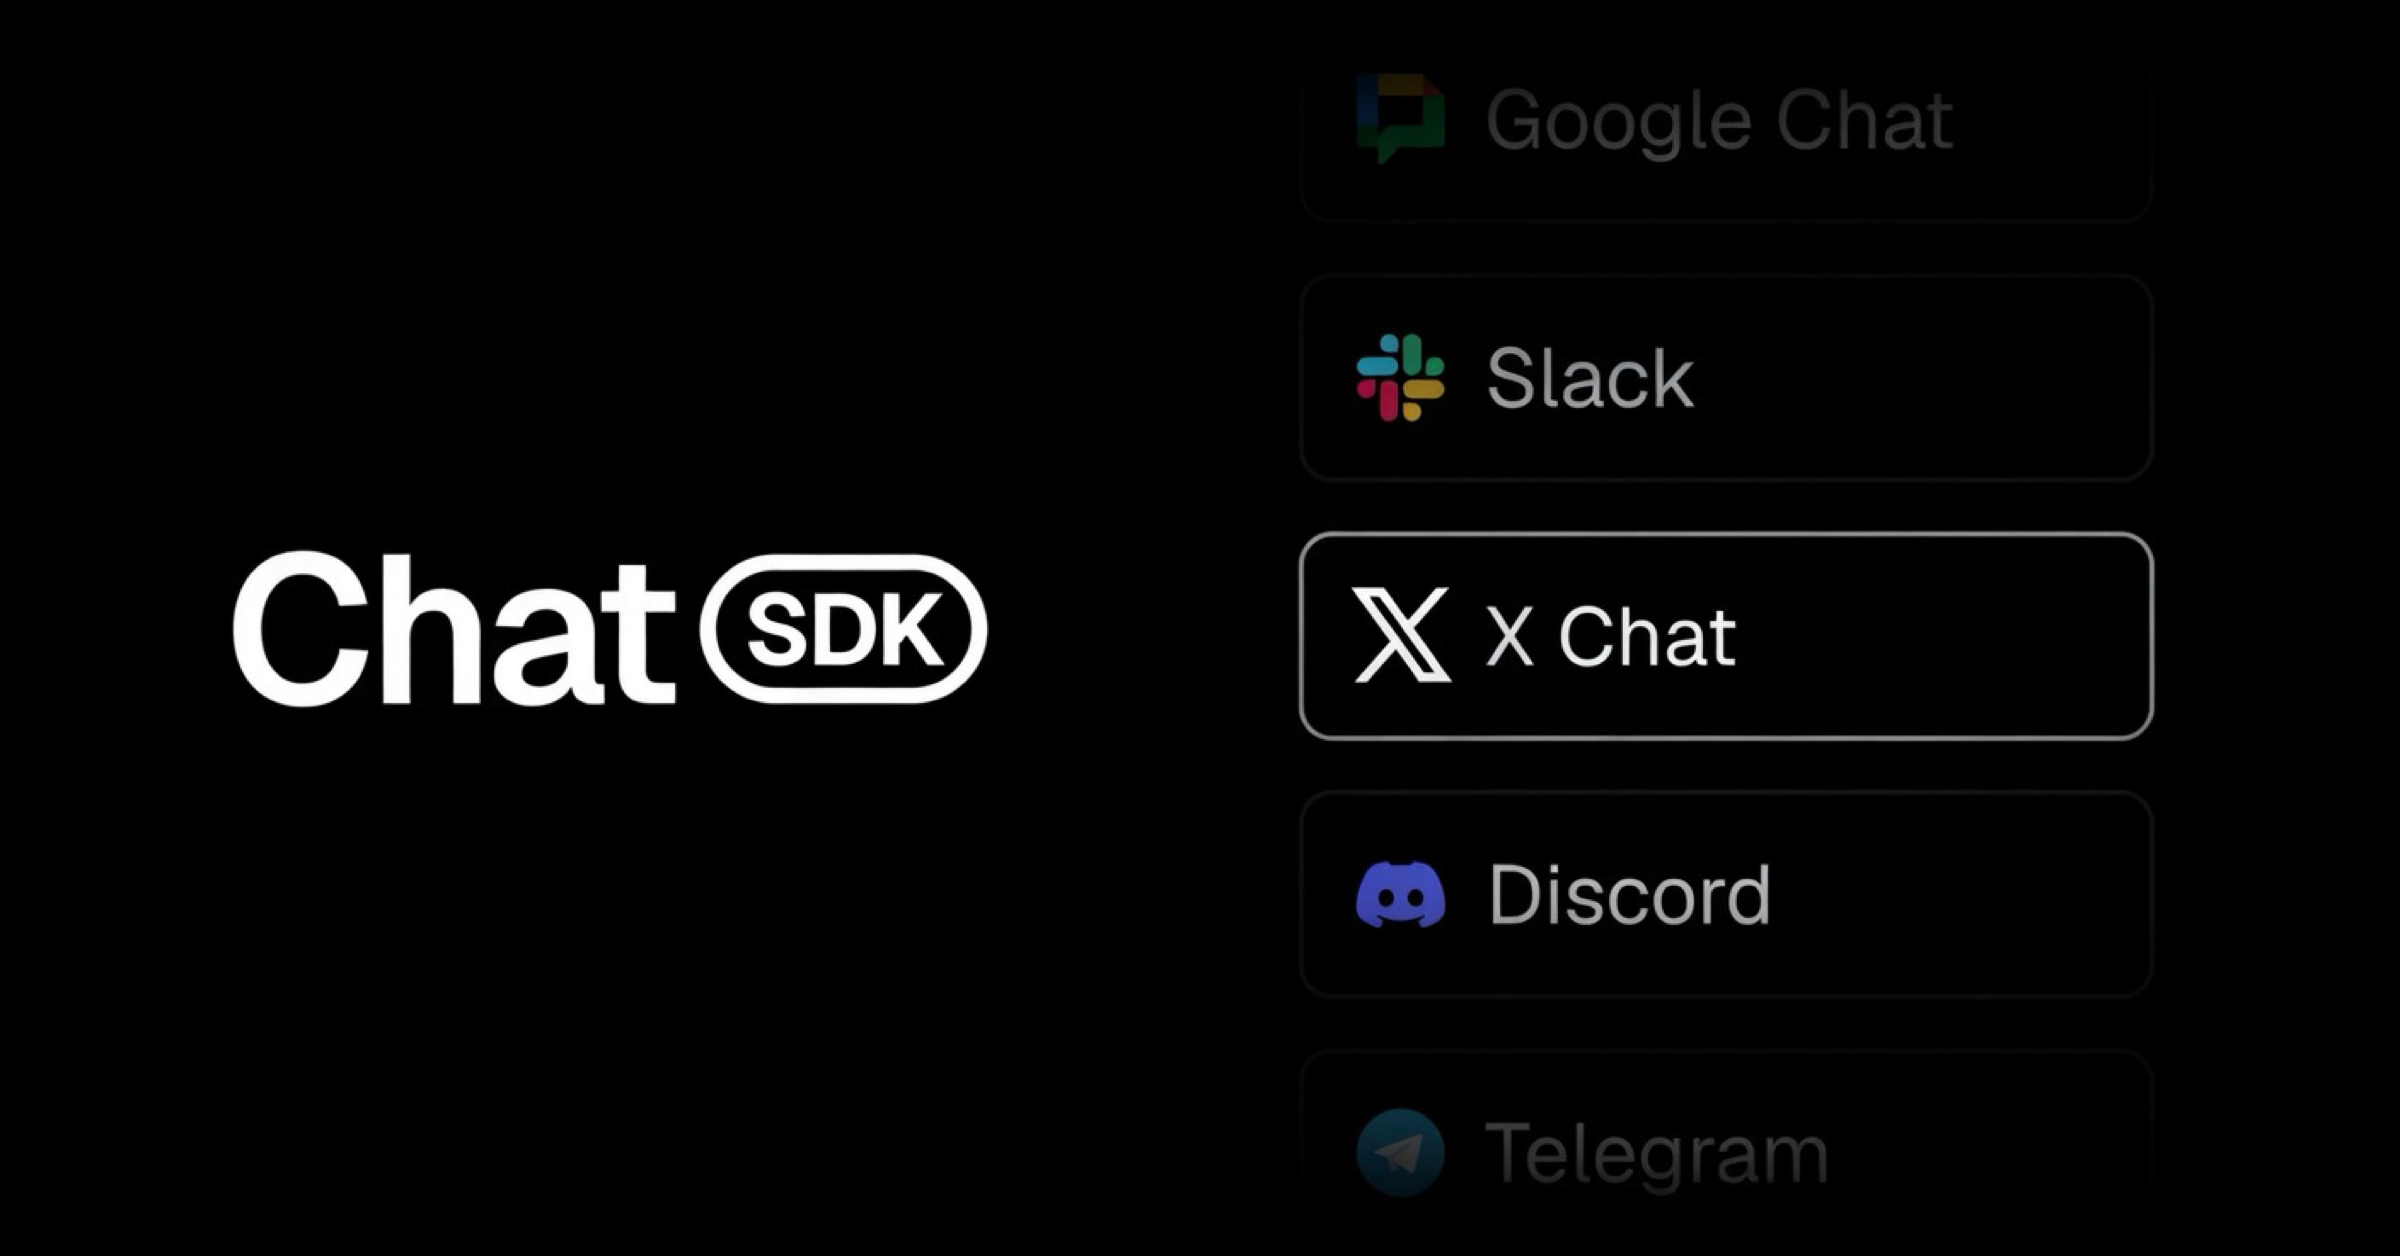
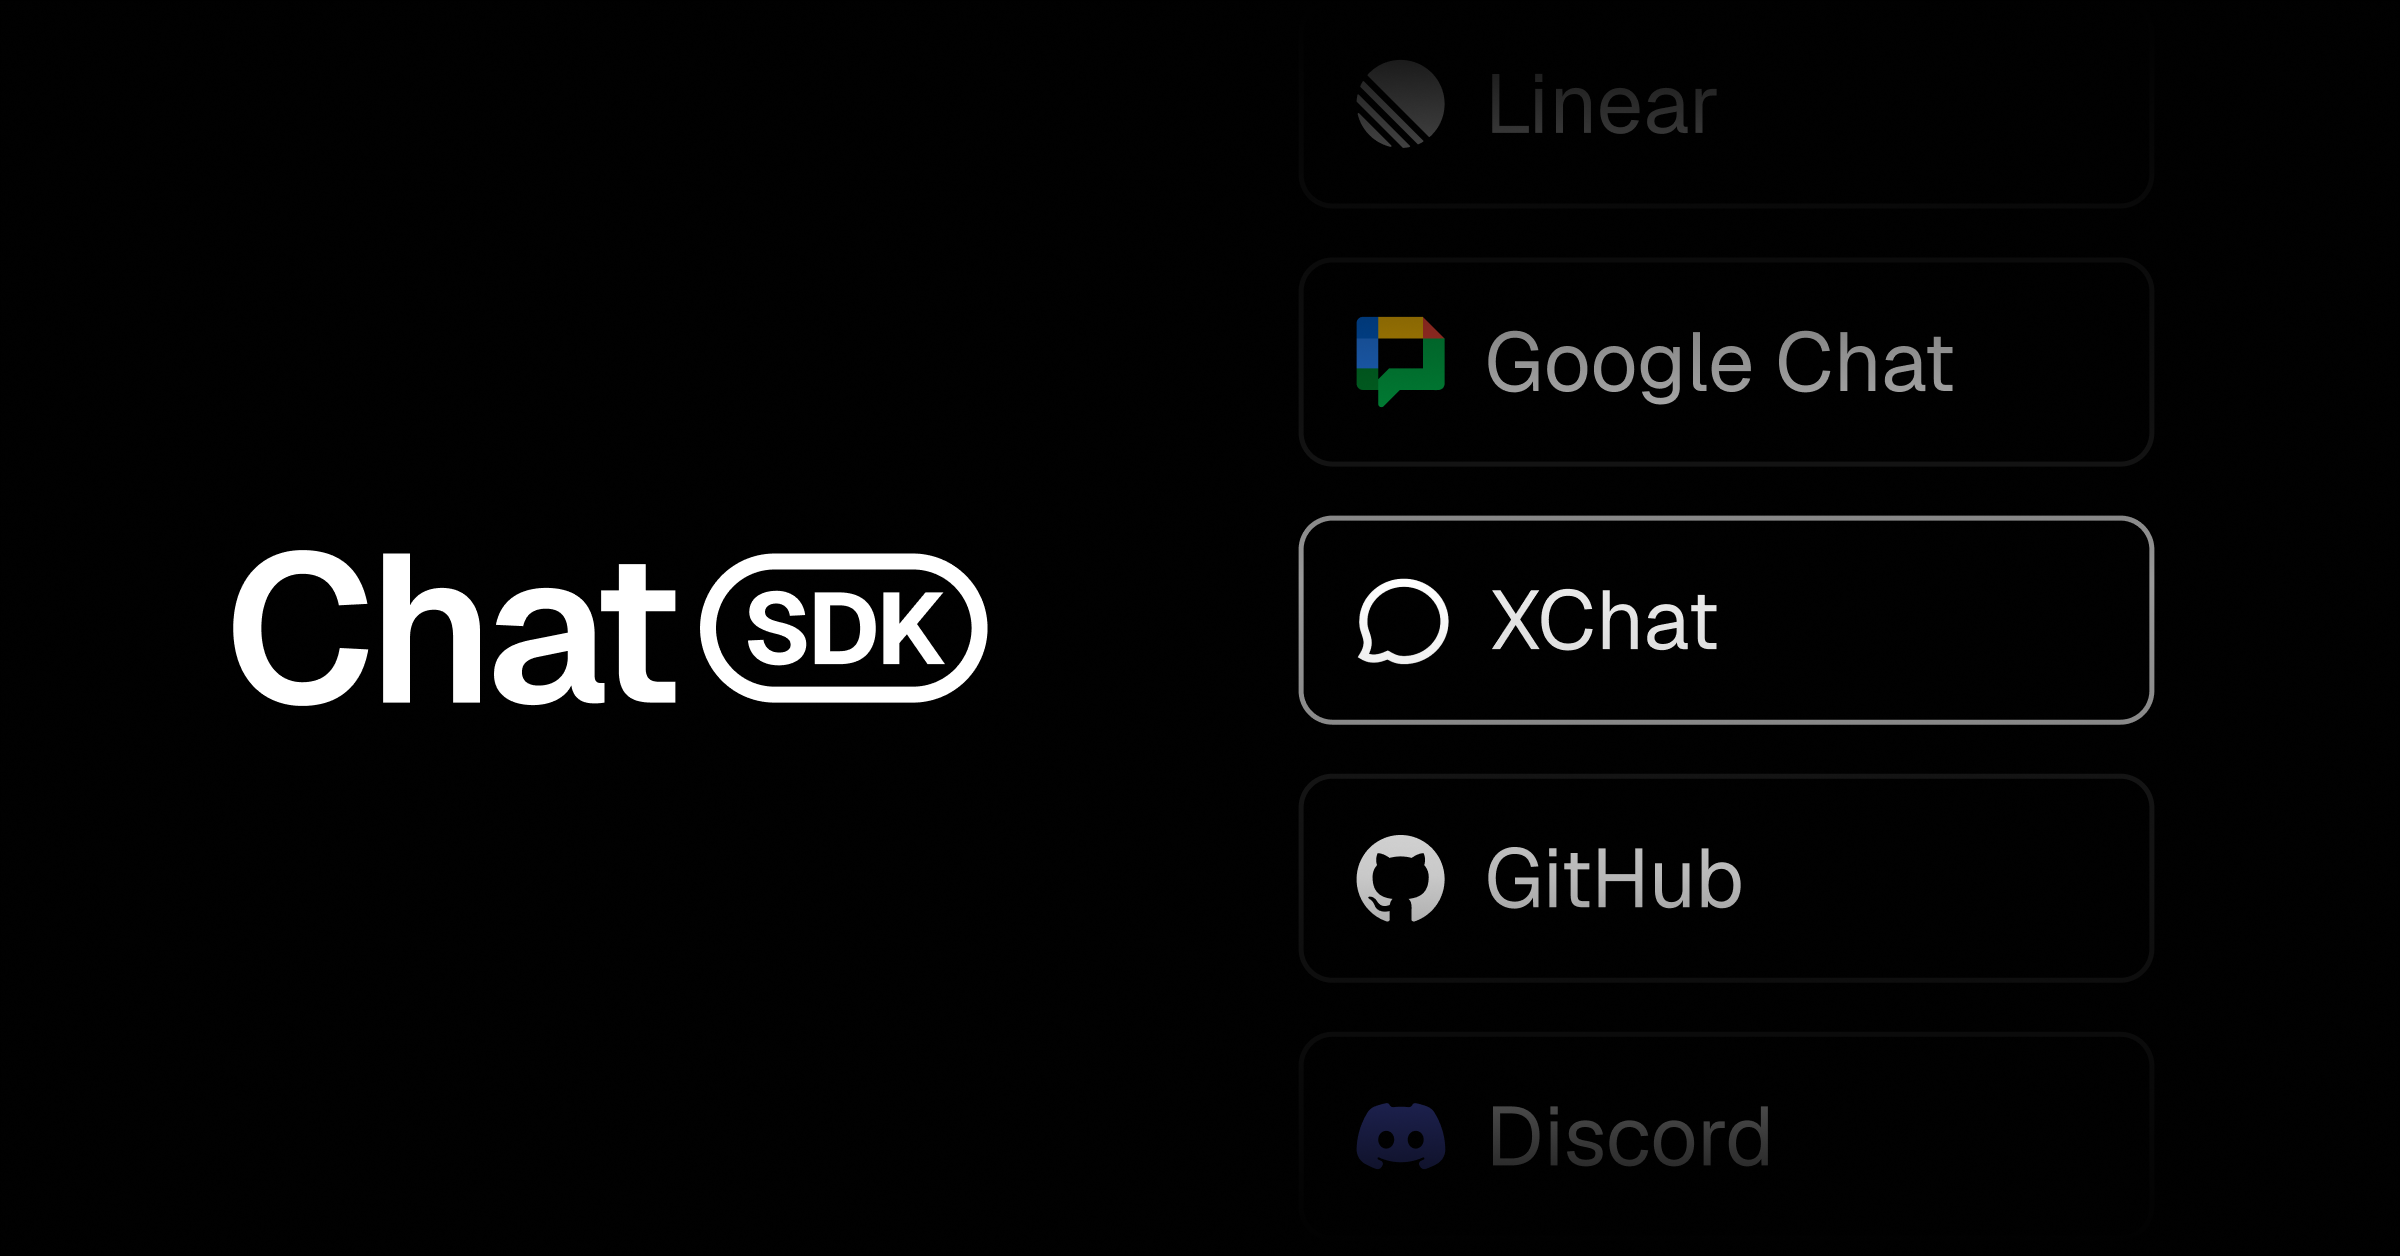
docs: add XChat branding and clarify X vs XChat adapters (#777)
- Add a dedicated XChat speech-bubble logo for the docs hero and
`/adapters` card
- Point XChat docs and `adapters.json` at the new `xchat` icon instead
of reusing `x`
- Update the XChat OG image
- Add reciprocal “X Adapter vs XChat Adapter” / “XChat Adapter vs X
Adapter” sections on both docs pages
- Rename remaining “X Chat” references to “XChat” in the adapter package
README and comments

diff --git a/apps/docs/lib/logos.tsx b/apps/docs/lib/logos.tsx
@@ -549,3 +549,18 @@ export const x = (props: ComponentProps<"svg">) => (
     <path d="M18.244 2.25h3.308l-7.227 8.26 8.502 11.24H16.17l-5.214-6.817L4.99 21.75H1.68l7.73-8.835L1.254 2.25H8.08l4.713 6.231zm-1.161 17.52h1.833L7.084 4.126H5.117z" />
   </svg>
 );
+
+export const xchat = (props: ComponentProps<"svg">) => (
+  <svg
+    fill="currentColor"
+    viewBox="1.25 1.75 22.75 21.75"
+    xmlns="http://www.w3.org/2000/svg"
+    {...props}
+  >
+    <path
+      clipRule="evenodd"
+      d="M19.95 4.65C20.01 4.71 20.07 4.76 20.14 4.82C20.21 4.87 20.27 4.93 20.34 4.98C20.83 5.41 21.24 5.87 21.63 6.39C21.68 6.45 21.73 6.51 21.78 6.57C23.44 8.82 24 11.58 23.63 14.33C23.56 14.71 23.47 15.07 23.37 15.44C23.35 15.49 23.33 15.54 23.32 15.6C22.94 16.79 22.33 18.13 21.48 19.06C21.43 19.06 21.37 19.06 21.32 19.06C21.3 19.1 21.28 19.14 21.26 19.19C20.89 19.87 20.21 20.41 19.59 20.86C19.53 20.91 19.47 20.95 19.41 21C17.16 22.64 14.25 23.48 11.47 23.09C10.56 22.94 9.69 22.66 8.89 22.19C8.7 22.11 8.61 22.13 8.4 22.18C8.34 22.2 8.28 22.21 8.22 22.23C8.15 22.25 8.09 22.26 8.02 22.28C7.96 22.3 7.9 22.31 7.84 22.33C7.6 22.4 7.36 22.47 7.12 22.54C5.33 23.04 3.62 22.77 2.02 21.88C1.76 21.74 1.51 21.58 1.26 21.42C1.37 21.1 1.52 20.83 1.69 20.55C2.4 19.33 2.83 18.18 2.47 16.76C2.37 16.43 2.27 16.1 2.16 15.76C2.14 15.7 2.12 15.63 2.1 15.57C2.06 15.44 2.02 15.32 1.98 15.19C1.7 14.35 1.62 13.58 1.62 12.69C1.62 12.61 1.62 12.61 1.62 12.53C1.63 11.61 1.71 10.74 1.97 9.85C1.98 9.79 2 9.74 2.02 9.68C2.38 8.45 2.97 7.3 3.78 6.31C3.81 6.27 3.84 6.23 3.88 6.18C5.78 3.8 8.52 2.46 11.52 2.1C14.56 1.77 17.6 2.72 19.95 4.65ZM5.5 7.54C4.11 9.34 3.51 11.55 3.8 13.81C3.87 14.16 3.98 14.48 4.09 14.81C4.17 15.06 4.26 15.32 4.34 15.58C4.36 15.64 4.38 15.71 4.4 15.78C4.85 17.2 4.89 18.66 4.31 20.07C4.24 20.26 4.25 20.35 4.33 20.55C5.57 20.95 6.94 20.43 8.07 19.94C8.73 19.7 8.73 19.7 9.05 19.83C9.22 19.92 9.39 20.02 9.56 20.13C11.24 21.12 12.99 21.2 14.87 20.79C14.92 20.77 14.98 20.76 15.04 20.75C17.06 20.28 19.03 18.96 20.17 17.21C20.21 17.14 20.26 17.08 20.3 17.01C20.34 16.94 20.39 16.87 20.44 16.8C21.53 15.03 21.88 12.85 21.43 10.82C20.9 8.63 19.46 6.71 17.54 5.52C13.55 3.17 8.51 4.02 5.5 7.54Z"
+      fillRule="evenodd"
+    />
+  </svg>
+);

diff --git a/packages/adapter-x/src/chat/index.ts b/packages/adapter-x/src/chat/index.ts
@@ -1955,7 +1955,7 @@ export class XchatAdapter implements Adapter<XchatThreadId, XchatRawMessage> {
       );
     }
 
-    // Resolve to a unicode emoji (X Chat reactions are unicode). The shared
+    // Resolve to a unicode emoji (XChat reactions are unicode). The shared
     // resolver's Google Chat profile is its plain-unicode output, so it is
     // the right conversion here despite the name.
     const unicodeEmoji = defaultEmojiResolver.toGChat(emoji);
@@ -2146,7 +2146,7 @@ export class XchatAdapter implements Adapter<XchatThreadId, XchatRawMessage> {
 
   /**
    * Send a typing indicator and keep re-sending it every few seconds until
-   * the next postMessage in this conversation (or a safety timeout). X Chat
+   * the next postMessage in this conversation (or a safety timeout). XChat
    * typing pills expire quickly, so a single POST is invisible during a
    * longer generation.
    */

diff --git a/apps/docs/components/geistdocs/adapter-hero.tsx b/apps/docs/components/geistdocs/adapter-hero.tsx
@@ -15,6 +15,7 @@ import {
   web,
   whatsapp,
   x,
+  xchat,
 } from "@/lib/logos";
 
 const ICON_MAP: Record<
@@ -37,6 +38,7 @@ const ICON_MAP: Record<
   twilio,
   messenger,
   x,
+  xchat,
 };
 
 interface AdapterHeroProps {

diff --git a/apps/docs/app/[lang]/adapters/components/adapter-card.tsx b/apps/docs/app/[lang]/adapters/components/adapter-card.tsx
@@ -25,6 +25,7 @@ import {
   web,
   whatsapp,
   x,
+  xchat,
 } from "@/lib/logos";
 
 const iconMap: Record<
@@ -47,6 +48,7 @@ const iconMap: Record<
   twilio,
   messenger,
   x,
+  xchat,
 };
 
 interface AdapterCardProps {

diff --git a/packages/adapter-x/README.md b/packages/adapter-x/README.md
@@ -248,7 +248,7 @@ export async function POST(request: Request) {
 
 When using `createXchatAdapter()` without arguments, credentials are auto-detected from environment variables. The bot's @handle is resolved from `GET /2/users/me` at startup, so mention detection works without any hardcoding.
 
-### X Chat setup
+### XChat setup
 
 ### 1. Register encryption keys
 
@@ -369,7 +369,7 @@ X_VERIFY_SIGNATURES=true           # Optional; set false to accept unverifiable 
 | Post cards | Yes (first `x.com/.../status/...` URL in outgoing text auto-attaches) |
 | Media out | Yes (files encrypt-streamed and uploaded via the 3-step media upload flow) |
 | Media in | Yes (attachments exposed with lazy download + decrypt via `fetchData()`) |
-| Cards / buttons / modals | No (X Chat has no interactive message surface) |
+| Cards / buttons / modals | No (XChat has no interactive message surface) |
 | Tables | ASCII code blocks |
 
 ### Conversations
